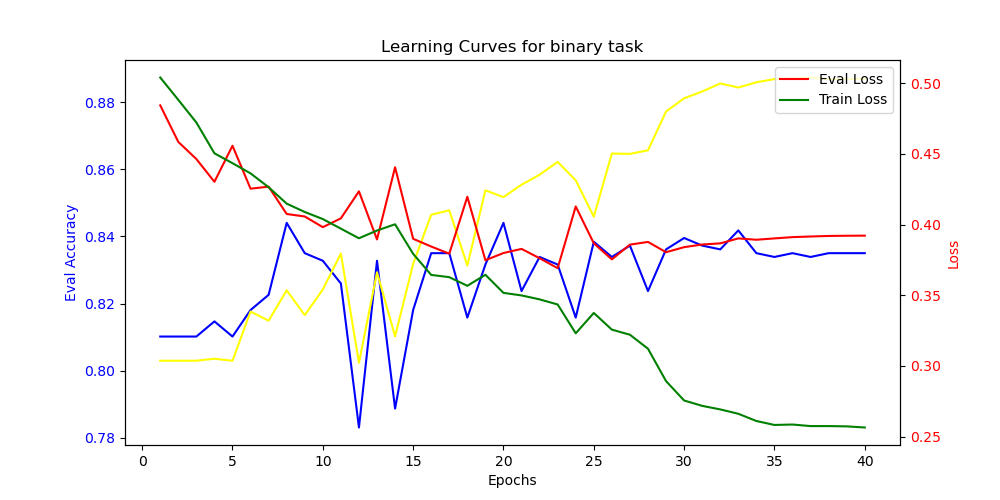
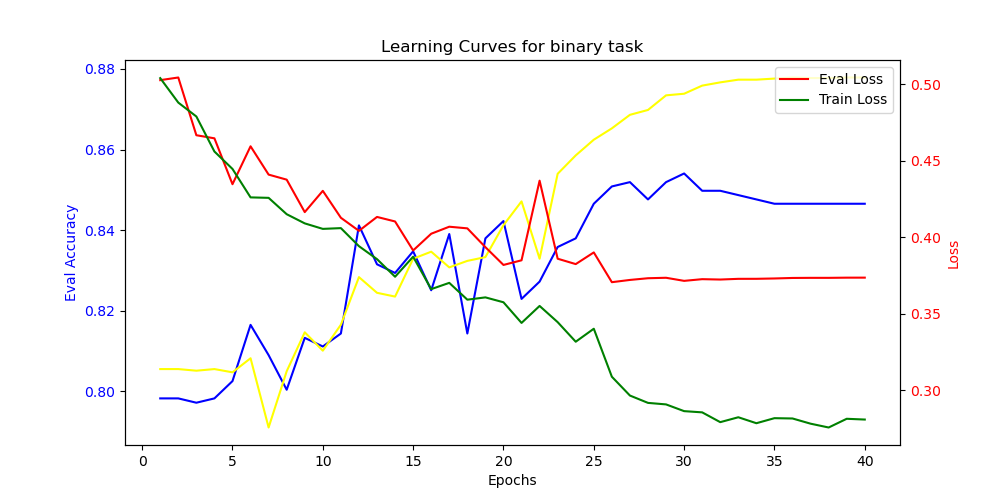
ADDED results

diff --git a/RESULTS.md b/RESULTS.md
@@ -1,27 +1,36 @@
 ## First Documentation of Results with my Pipeline
 
+- our model -> The model i fine tuned on startpep data with binary classifier
+- peptideBERT model -> Model based on protBERT with binary classifier
+- Here shown Plots are not made in chronological order, due to progress in Development. There where no alterations of
+  the algorithm but just more ways to fetch and visualize stats and metrics
+    - During this process all generated plots seemed reproducable and stable and results
+
 ### Planned steps for this Project
 
-- Here i tried to reproduce the Results from the PeptideBERT Paper. I used the same Data and the same Hyperparameters as in the Paper. 
+- Here i tried to reproduce the Results from the PeptideBERT Paper. I used the same Data and the same Hyperparameters as
+  in the Paper.
 - I Still need to tweek the MLM train with stuff like Curriculum Learning. There is still lot of optimization to do.
 
 - [x] **Step 1:** Show Results of PeptideBERT Train with normal whitelab data
-  - [x] **Step 1.1:** Show ablation Test Results
-  - [ ] **Step 1.2:** TODO Cluster with model
+    - [x] **Step 1.1:** Show ablation Test Results
+    - [x] **Step 1.2:** TODO Cluster with model
 - [x] **Step 2:** Show Results of PeptideBERT Train without Data Leakage
 - [x] **Step 3:** Show Results of PeptideBERT Train with our Data and w/o Leakage
-  - [ ] **Step 3.1:** TODO Cluster with model
-- [ ] **Step 4:** Show Results of MLMPeptideBERT and compare to protBERT
-  - [ ] **Step 4.1:** Initial Accuracy of mlm task train should be accuracy of protBERT for our peptide Task
-  - [ ] **Step 4.2:** Show Results with Curriculum Learning
--[ ] **Step 5:** Retrain binary PeptideBERT on our new MLMBERT
-  - [ ] **Step 5.1:** TODO Cluster with model
+    - [x] **Step 3.1:** TODO Cluster with model
+- [x] **Step 4:** Show Results of MLMPeptideBERT and compare to protBERT
+    - [x] **Step 4.1:** Initial Accuracy of mlm task train should be accuracy of protBERT for our peptide Task
+    - [ ] **Step 4.2:** Show Results with Curriculum Learning ***TODO***
+-[x] **Step 5:** Retrain binary PeptideBERT on our new MLMBERT
+    - [x] **Step 5.1:** TODO Cluster with model
 
 ### Step 1 - 3:
+
 - Due to data leakage I couldn't follow the task for reproducing peptideBERTs results.
 - I now try to show the effects of the Data Leakage on the model and the results
 
 ### Train run for PeptideBERT on original Algorithm but with my data_leakage_viewer
+
 - This Function searches for leaked data in the train, val and test datasets
 
 ![leakage](./pictures/data_leakage_unfiltered.png)
@@ -35,25 +44,25 @@
 ![leakage_results_filtered](./pictures/no_leakage_tmp_result.png)
 
 - I could repdroduce PeptideBERTs results with my Pipeline
-  - Only difference with my algorithm, I use grad_norm_clipping to avoid exploding gradients
-  
+    - Only difference with my algorithm, I use grad_norm_clipping to avoid exploding gradients
+
 ![reproduced](./pictures/reproduced.png)
 
 #### Learning Curves generated through my algorithm
 
 - The Learning Curve for the leaked variant of PeptideBERT
-![leak_curve](./pictures/leak_curve.png)
+  ![leak_curve](./pictures/leak_curve.png)
 
 - The Learning Curve for the non leaked variant of PeptideBERT
-![non_leak_curve](./pictures/non_leak_curve.png)
-
+  ![non_leak_curve](./pictures/non_leak_curve.png)
 
 # Is this a Problem?
 
-- I was curious about the minor impact of the data leakage on the results of the model, so I took a look into the predictions a bit more closely and found the Following:
+- I was curious about the minor impact of the data leakage on the results of the model, so I took a look into the
+  predictions a bit more closely and found the Following:
 
 - I printed out the labels of the Prediction Array each epoch for better tracking
-  -  After the first epoch the model already predicts only 0. 
+    - After the first epoch the model already predicts only 0.
 
 ![big problem](./pictures/big_problem.png)
 
@@ -61,61 +70,81 @@
 
 ![distribution](./pictures/data_distribution.png)
 
-
 - by predicting only 0 it will naturally achieve 80% accuracy since 80% of the data is labeled 0
 
 - I plotted the distribution of predicted labels for each batch in training and evaluation
-  - Area painted red representing the total of predicted 1 labels
-  - Area painted green representing the total of predicted 0 labels
-  
-### These are the results for the leakage variant of PeptideBERT
-    
-  
+    - Area painted red representing the total of predicted 1 labels
+    - Area painted green representing the total of predicted 0 labels
 
-  - Label Prediction for Epochs
-![epoch wise](./pictures/binary_label_abundance.png)
-  - Label Prediction for Train batches
-![batch wise](./pictures/train_batch_wise_label_prediction_label_abundance.png)
+### These are the results for the leakage variant of PeptideBERT
+
+- Label Prediction for Epochs
+  ![epoch wise](./pictures/binary_label_abundance.png)
+- Label Prediction for Train batches
+  ![batch wise](./pictures/train_batch_wise_label_prediction_label_abundance.png)
 
 ### These are the results for the non leakage variant of PeptideBERT
 
-  - Label Prediction for Epochs
-![nonleaked epoch wise](./pictures/non_leaked_label.png)
-  - Label Prediction for Train batches
-![nonleaked batch wise](./pictures/batch_wise_non_leaked.png)
+- Label Prediction for Epochs
+  ![nonleaked epoch wise](./pictures/non_leaked_label.png)
+- Label Prediction for Train batches
+  ![nonleaked batch wise](./pictures/batch_wise_non_leaked.png)
 
 #### Testing this further
-- Anyway, the test I made looked good.
-  - I used the Human Atlas Human Peptide Dataset for cleary non bioactive hemolytic Peptides
-  - I used the hemolytic positiv data from our dataset for bioactive Peptides
-    - The Idea, The human atlas data we should always see 0 since they are not hemolytic nor even bioactive, for our data we should see always 1 as prediction
 
-![label_prediction_bias](./pictures/label_prediction_bias.png)
+- Anyway, the test I made looked good.
+    - I used the Human Atlas Human Peptide Dataset for cleary non bioactive hemolytic Peptides
+    - I used the hemolytic positiv data from our dataset for bioactive Peptides
+        - The Idea, The human atlas data we should always see 0 since they are not hemolytic nor even bioactive, for our
+          data we should see always 1 as prediction
+
+- This plots shows a test plot for the predicted labels of our model
+- [ ] Still in computing
 
 ### Cluster
 
-- [ ] Add cluster Graphs
+- Due to the data leakage problem I couldn't find the time to look deeper into the right params for the clustering
+  algorithm
+    - For tsne is tried different perplexities ranging from 5-50 like stated in the documentary, i also set max_iter to
+      3000
+        - I couldn't reproduce the tsne results so far. I contacted the author of the paper for help
+        - Cluster Graphs shown in the following are first views on the data, this will improve with time
 
 #### Leaked Variant
 
-- [ ] Add Plots
+- t-SNE
+  ![tsne_leaked_pep](./pictures/tsne_leaked_pep.png)
+- UMAP
+  ![umap_leaked_pep](./pictures/umap_leaked_pep.png)
+- PCA
+  ![pca_leaked_pep](./pictures/pca_leaked_pep.png)
 
-#### Non Leaked 
+#### Non Leaked
 
-- [ ] Add Plots
+- t-SNE
+  ![tsne_nonleaked_pep](./pictures/tsne_nonleaked_pep.png)
+- UMAP
+  ![umap_nonleaked_pep](./pictures/umap_nonleaked_pep.png)
+- PCA
+  ![pca_nonleaked_pep](./pictures/pca_nonleaked_pep.png)
 
-## Proof of Concept
+## Proof of Concept MLM Task Fine Tuning
+
 ### Step 4 Proof of Concept: MLMPeptideBERT
 
 - mlm task looks good so far. Naive Implementation of MLM Task with PeptideBERT provides stable results so far.
 - Plotted is eval_accuracy, I didn't manage to capture train_accuracy so far. It's on TODO
 
 ![MLM Task](./pictures/first_mlm.png)
-- Accuracy raise and loss decrease seems reasonable. 
-- [ ] Also plot prediction distribution here. Could be interesting to see if the model is biased towards a certain amino acid
 
-### Step 4.1 
-- The accuracy for reconstructing masked bioactive sequences of protBERT should be the initial accuracy of our fine_tuning process
+- Accuracy raise and loss decrease seems reasonable.
+- [ ] Also plot prediction distribution here. Could be interesting to see if the model is biased towards a certain amino
+  acid
+
+### Step 4.1
+
+- The accuracy for reconstructing masked bioactive sequences of protBERT should be the initial accuracy of our
+  fine_tuning process
 
 ### Step 4.2 Curriculum Learning
 
@@ -123,13 +152,54 @@
 
 ### Step 5 Proof of Concept: Binary PeptideBERT
 
-- [ ] Still in Progress due to severe bug found in PeptideBERT train algorithm
+- I trained a variant with leaked data to compare the results to the original PeptideBERT
 
-### Look into Label predictions
+#### Leaked Variant
 
-#### With Data Leakage
+- Learning Curve
+  ![our_learning_leak](./pictures/our_learning_leak.png)
 
-- Batch Wise
-![batch wise](./pictures/ourBERT_batchwise.png)
-- Epoch Wise
-![epoch wise](./pictures/ourBERT_epoch.png)
+- Batch Wise Label Prediction
+  ![batch wise](./pictures/ourBERT_batchwise.png)
+
+- Label bias test
+  ![label_prediction_bias](./pictures/our_bias_leak.png)
+
+- Epoch wise Label Prediction
+  ![epoch wise](./pictures/epoch_label_leak_our.png)
+
+#### Non Leaked Variant
+
+- Learning Curve
+  ![our_learning_nonleak](./pictures/our_learning_nonleak.png)
+- Batch Wise Label Prediction
+- [ ] Did not Compute this here bc this Plot needs ALOT of computation time. But The results should be abstract-able
+  from the epoch wise plot
+
+- Epoch wise Label Prediction
+  ![epoch wise](./pictures/epoch_label_nonleak_our.png)
+
+- Label bias test
+- [ ] Still computing
+
+### Cluster
+
+##### Leaked Variant:
+
+- t-SNE
+  ![tsne_leaked_our](./pictures/tsne_leaked_our.png)
+- UMAP
+  ![umap_leaked_our](./pictures/umap_leaked_our.png)
+- PCA
+  ![pca_leaked_our](./pictures/pca_leaked_our.png)
+
+##### Non Leaked Variant:
+
+- t-SNE
+  ![tsne_nonleak_our](./pictures/tsne_nonleak_our.png)
+- UMAP
+  ![umap_nonleak_our](./pictures/umap_nonleak_our.png)
+- PCA
+  ![pca_nonleak_our](./pictures/pca_nonleak_our.png)
+
+  
